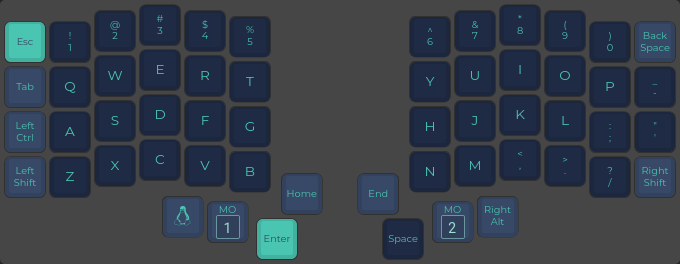
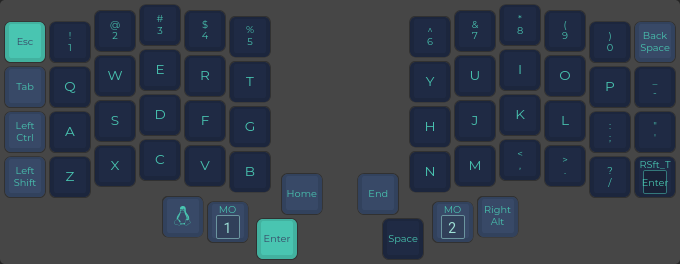
Use right shift as enter when tapped, also wip alt dot

Changed region(s): [[0.9265, 0.5758, 1.0, 0.7576]]

diff --git a/keymap.c b/keymap.c
@@ -26,7 +26,7 @@ const uint16_t PROGMEM keymaps[][MATRIX_ROWS][MATRIX_COLS] = {
   //├────────┼────────┼────────┼────────┼────────┼────────┤                          ├────────┼────────┼────────┼────────┼────────┼────────┤
      KC_LCTL, KC_A,    KC_S,    KC_D,    KC_F,    KC_G,                               KC_H,    KC_J,    KC_K,    KC_L,    KC_SCLN, KC_QUOT,
   //├────────┼────────┼────────┼────────┼────────┼────────┼────────┐        ┌────────┼────────┼────────┼────────┼────────┼────────┼────────┤
-     KC_LSFT, KC_Z,    KC_X,    KC_C,    KC_V,    KC_B,    KC_HOME,          KC_END,  KC_N,    KC_M,    KC_COMM, KC_DOT,  KC_SLSH, KC_RSFT,
+     KC_LSFT, KC_Z,    KC_X,    KC_C,    KC_V,    KC_B,    KC_HOME,          KC_END,  KC_N,    KC_M,    KC_COMM, KC_DOT,  KC_SLSH, RSFT_T(KC_ENT),
   //└────────┴────────┴────────┴───┬────┴───┬────┴───┬────┴───┬────┘        └───┬────┴───┬────┴───┬────┴───┬────┴────────┴────────┴────────┘
                                     KC_LGUI, LOWER,   KC_ENT,                    KC_SPC,  RAISE,   KC_RALT
                                 // └────────┴────────┴────────┘                 └────────┴────────┴────────┘
@@ -40,7 +40,7 @@ const uint16_t PROGMEM keymaps[][MATRIX_ROWS][MATRIX_COLS] = {
   //├────────┼────────┼────────┼────────┼────────┼────────┤                          ├────────┼────────┼────────┼────────┼────────┼────────┤
      KC_DEL,  _______, KC_LEFT, KC_RGHT, KC_UP,   KC_LBRC,                            KC_RBRC, KC_P4,   KC_P5,   KC_P6,   LALT(KC_SCLN), KC_PIPE,
   //├────────┼────────┼────────┼────────┼────────┼────────┼────────┐        ┌────────┼────────┼────────┼────────┼────────┼────────┼────────┤
-     BL_STEP, _______, _______, _______, KC_DOWN, KC_LCBR, KC_LPRN,          KC_RPRN, KC_RCBR, KC_P1,   KC_P2,   KC_P3,   KC_MINS, _______,
+     BL_STEP, _______, _______, _______, KC_DOWN, KC_LCBR, KC_LPRN,          KC_RPRN, KC_RCBR, KC_P1,   KC_P2,   KC_P3,   LALT(KC_DOT), _______,
   //└────────┴────────┴────────┴───┬────┴───┬────┴───┬────┴───┬────┘        └───┬────┴───┬────┴───┬────┴───┬────┴────────┴────────┴────────┘
                                     _______, _______, KC_DEL,                    KC_DEL,  _______, KC_P0
                                 // └────────┴────────┴────────┘                 └────────┴────────┴────────┘
